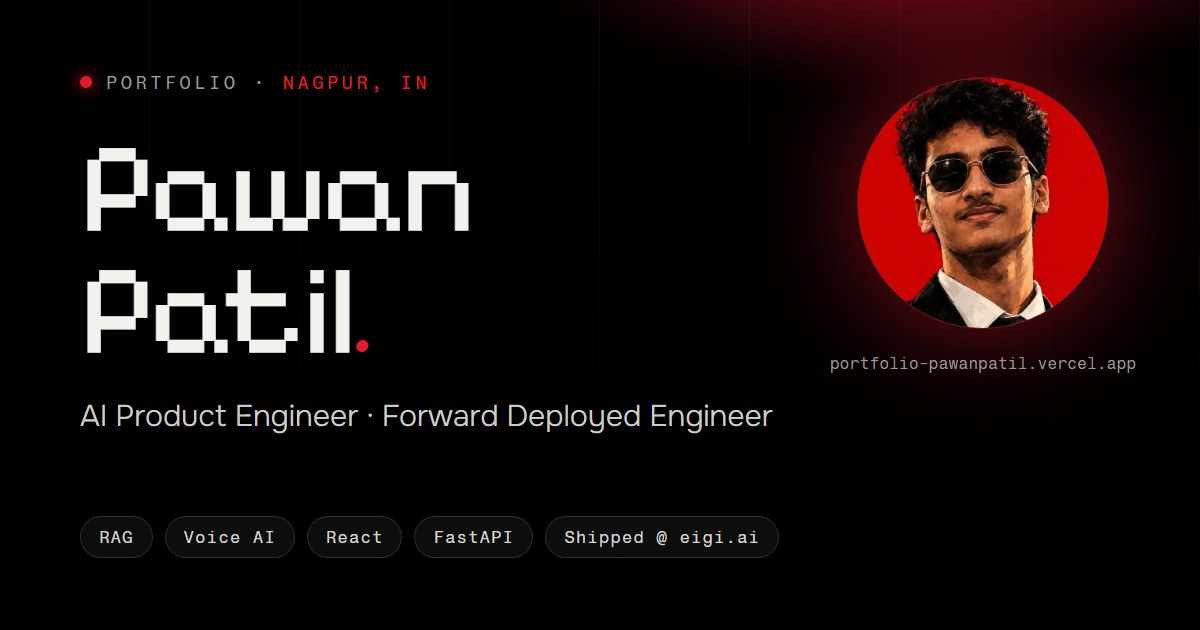
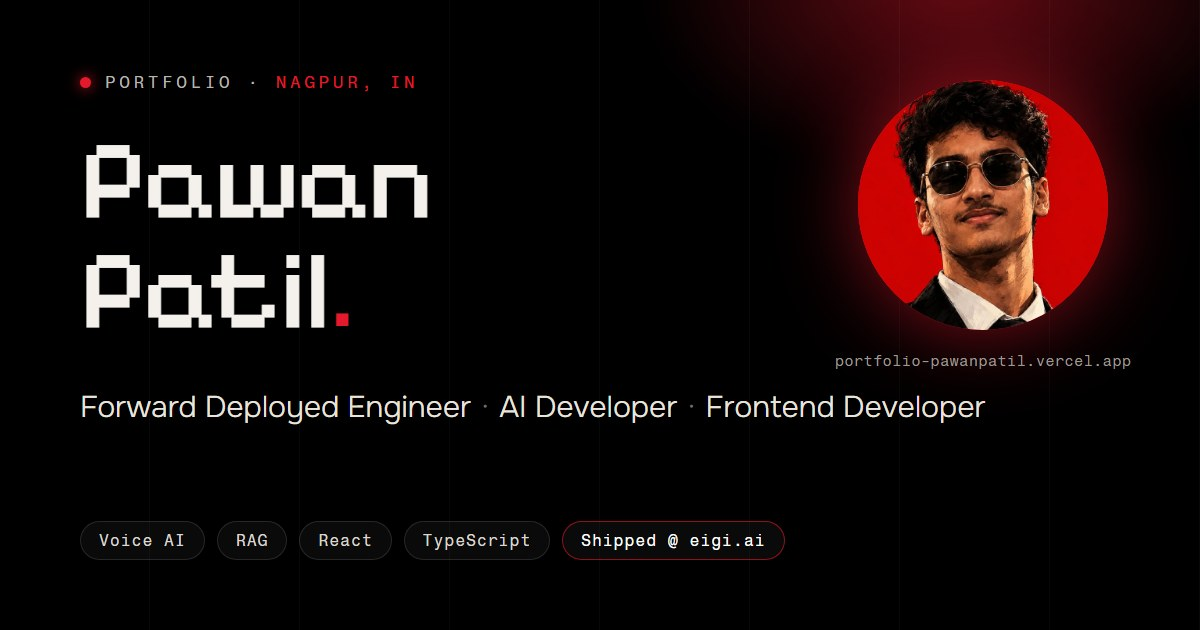
OG card: Forward Deployed Engineer · AI Developer · Frontend Developer
Recreated the link-preview banner from an HTML source (scripts/og/og.html)
with the new role line; also the GitHub profile banner.

diff --git a/scripts/og/og.html b/scripts/og/og.html
@@ -1,0 +1,43 @@
+<!doctype html>
+<!-- Source for public/og.jpg (1200×630 link-preview card, also the GitHub profile banner).
+     Render: msedge --headless=new --hide-scrollbars --window-size=1200,630 --virtual-time-budget=5000 --screenshot=og.png scripts/og/og.html
+     then convert to public/og.jpg -->
+<html lang="en">
+<head>
+<meta charset="utf-8">
+<link rel="preconnect" href="https://fonts.googleapis.com">
+<link rel="preconnect" href="https://fonts.gstatic.com" crossorigin>
+<link href="https://fonts.googleapis.com/css2?family=Fragment+Mono&family=Onest:wght@300;400&family=Pixelify+Sans:wght@500&display=swap" rel="stylesheet">
+<style>
+  html,body{margin:0;width:1200px;height:630px;overflow:hidden;background:#000}
+  body{position:relative;font-family:'Onest',sans-serif;color:#f4f1ec}
+  .glow{position:absolute;inset:-30% -10% auto 35%;height:90%;background:radial-gradient(50% 50% at 60% 30%,rgba(229,25,44,.45),transparent 70%);filter:blur(18px)}
+  .lines{position:absolute;inset:0;background:repeating-linear-gradient(90deg,transparent 0 calc(12.5% - 1px),rgba(255,255,255,.03) calc(12.5% - 1px) 12.5%)}
+  .copy{position:absolute;left:80px;top:72px;right:420px}
+  .kicker{font-family:'Fragment Mono',monospace;font-size:17px;letter-spacing:.22em;color:#b9b4ae;display:flex;align-items:center;gap:14px}
+  .kicker i{width:11px;height:11px;border-radius:50%;background:#e5192c;box-shadow:0 0 14px #e5192c}
+  .kicker b{color:#e5192c;font-weight:400}
+  h1{font-family:'Pixelify Sans',sans-serif;font-weight:500;font-size:112px;line-height:.98;margin:34px 0 0;letter-spacing:-.01em}
+  h1 em{font-style:normal;color:#e5192c}
+  .role{margin-top:42px;font-size:30px;font-weight:300;color:#e9e4de;white-space:nowrap}
+  .role span{color:#6e6a66;margin:0 .35em}
+  .chips{position:absolute;left:80px;bottom:70px;display:flex;gap:12px}
+  .chips span{font-family:'Fragment Mono',monospace;font-size:16px;letter-spacing:.06em;padding:9px 18px;border-radius:999px;border:1px solid rgba(255,255,255,.12);background:rgba(255,255,255,.04);color:#dcd7d1}
+  .chips span.hot{border-color:rgba(229,25,44,.6);color:#fff}
+  .avatar{position:absolute;right:92px;top:80px;width:250px;height:250px;border-radius:50%;overflow:hidden;background:#e5192c;box-shadow:0 0 90px -10px rgba(229,25,44,.75)}
+  .avatar img{width:100%;height:100%;object-fit:cover}
+  .url{position:absolute;right:64px;top:352px;width:306px;text-align:center;font-family:'Fragment Mono',monospace;font-size:15px;color:#9d9892;letter-spacing:.02em}
+</style>
+</head>
+<body>
+  <div class="glow"></div><div class="lines"></div>
+  <div class="copy">
+    <div class="kicker"><i></i>PORTFOLIO · <b>NAGPUR, IN</b></div>
+    <h1>Pawan<br>Patil<em>.</em></h1>
+    <div class="role">Forward Deployed Engineer<span>·</span>AI Developer<span>·</span>Frontend Developer</div>
+  </div>
+  <div class="avatar"><img src="../../public/img/avatar.jpg" alt=""></div>
+  <div class="url">portfolio-pawanpatil.vercel.app</div>
+  <div class="chips"><span>Voice AI</span><span>RAG</span><span>React</span><span>TypeScript</span><span class="hot">Shipped @ eigi.ai</span></div>
+</body>
+</html>

diff --git a/public/index.html b/public/index.html
@@ -19,7 +19,7 @@
   <meta property="og:image" content="https://portfolio-pawanpatil.vercel.app/og.jpg" />
   <meta property="og:image:width" content="1200" />
   <meta property="og:image:height" content="630" />
-  <meta property="og:image:alt" content="Pawan Patil — AI Product Engineer · Forward Deployed Engineer" />
+  <meta property="og:image:alt" content="Pawan Patil — Forward Deployed Engineer · AI Developer · Frontend Developer" />
   <meta property="og:locale" content="en_IN" />
   <meta property="profile:first_name" content="Pawan" />
   <meta property="profile:last_name" content="Patil" />
